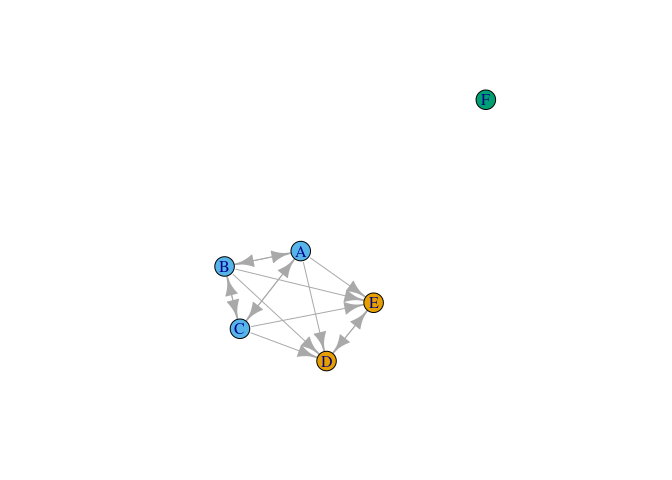
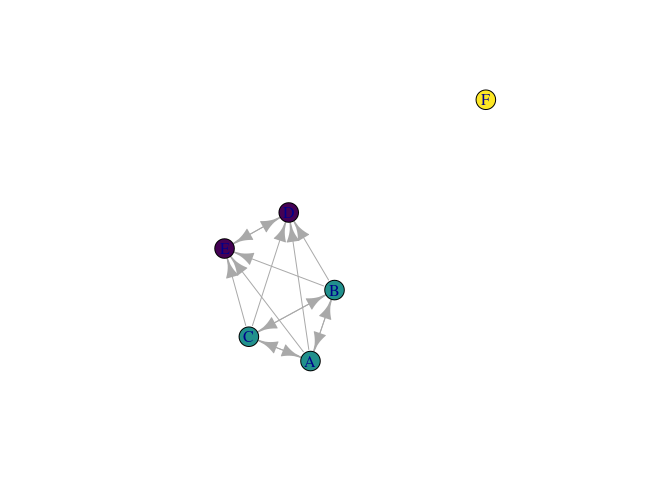
Updated color palette so that we don't run into the recycled palette issue for larger numbers of splits/blocks.

Changed region(s): [[0.3125, 0.4062, 0.5938, 0.7812], [0.6875, 0.1875, 0.75, 0.25]]

diff --git a/README.md b/README.md
@@ -41,6 +41,9 @@ partition a single adjacency matrix.
 
 ``` r
 library(concorR)
+source('R/CONCOR_blockmodeling.R')
+source('R/CONCOR.R')
+source('R/CONCOR_supplemental_fun.R')
 
 a <- matrix(c(0, 0, 0, 0, 1, 1, 0, 1, 0, 1, 1, 1, 0, 1, 1, 
                1, 0, 1, 0, 1, 1, 0, 0, 0, 0), ncol = 5)
@@ -67,6 +70,8 @@ library(igraph)
 #> The following object is masked from 'package:base':
 #> 
 #>     union
+library(viridis)
+#> Loading required package: viridisLite
 
 plot(graph_from_adjacency_matrix(a))
 ```
@@ -76,7 +81,8 @@ plot(graph_from_adjacency_matrix(a))
 ``` r
 glist <- concor_make_igraph(list(a))
 
-plot(glist[[1]], vertex.color = V(glist[[1]])$csplit1)
+col_pal_a = viridis(2)
+plot(glist[[1]], vertex.color = col_pal_a[V(glist[[1]])$csplit1])
 ```
 
 <img src="man/figures/README-example-basic-2.png" width="100%" />
@@ -211,7 +217,8 @@ plot(graph_from_adjacency_matrix(isoA))
 
 ## With CONCOR block coloring
 gISOlist <- concor_make_igraph(list(isoA))
-plot(gISOlist[[1]], vertex.color = V(gISOlist[[1]])$csplit1)
+col_pal_iso = viridis(3)
+plot(gISOlist[[1]], vertex.color = col_pal_iso[V(gISOlist[[1]])$csplit1])
 ```
 
 <img src="man/figures/README-example-iso-2.png" width="100%" />
